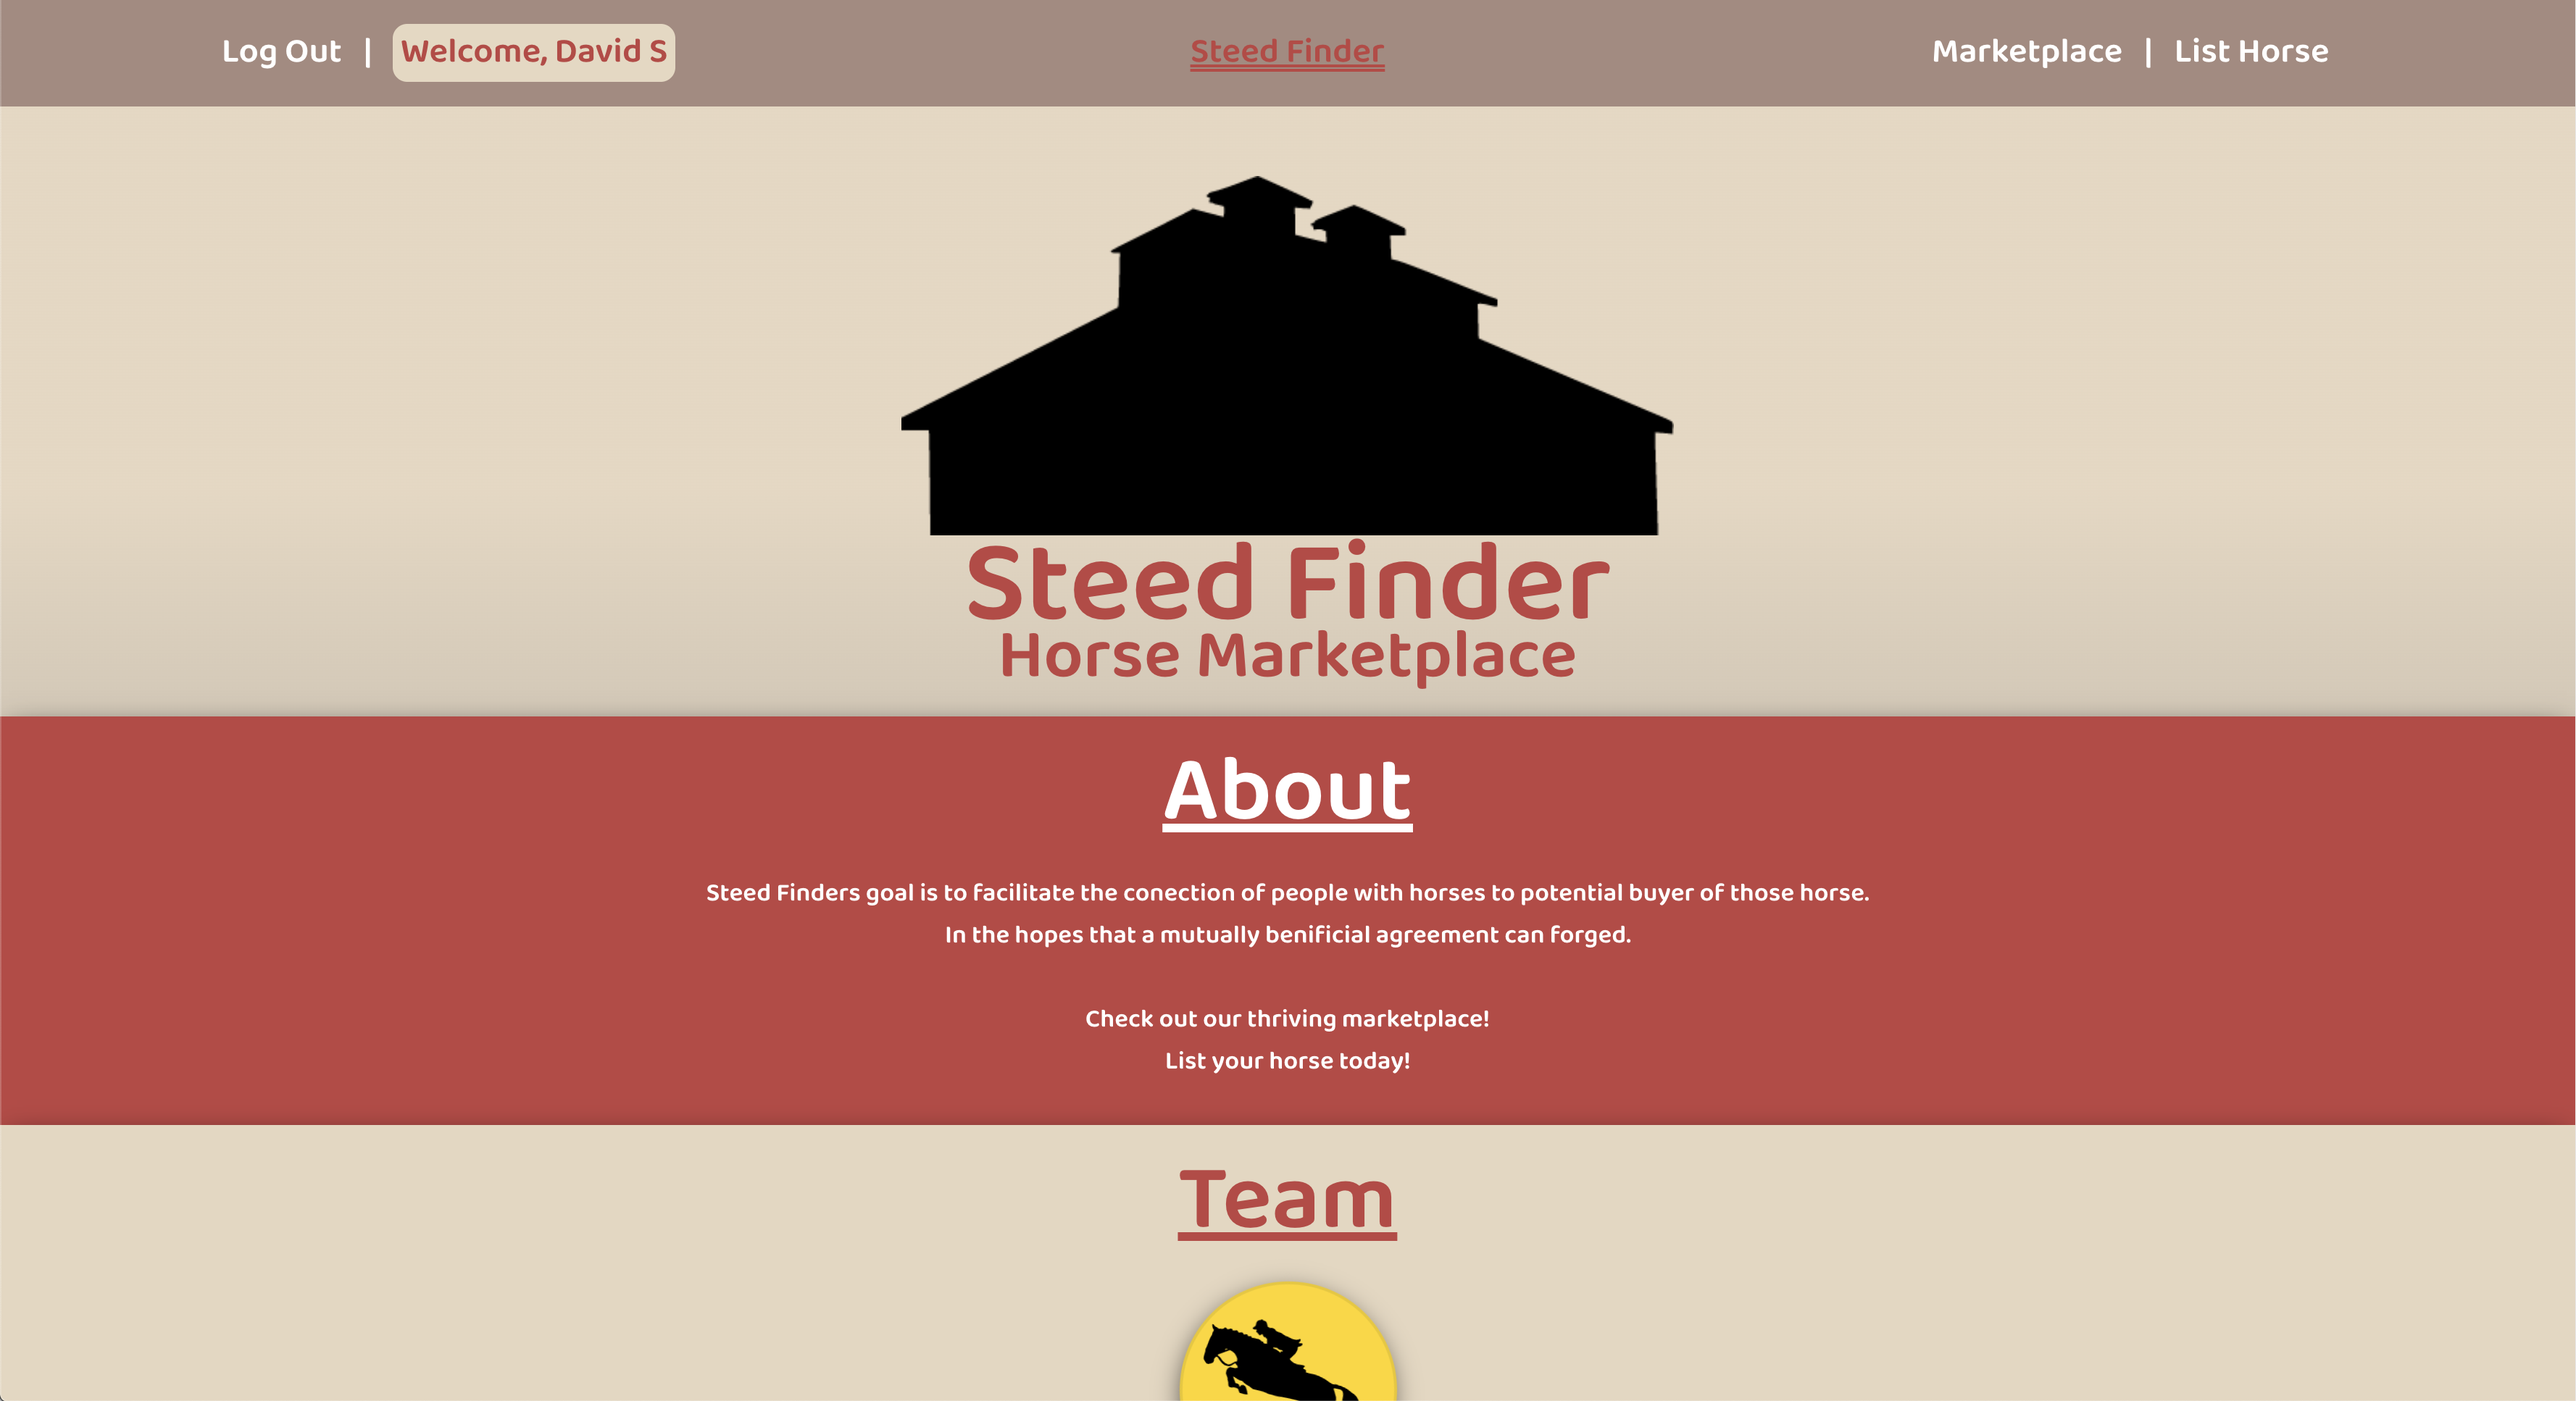
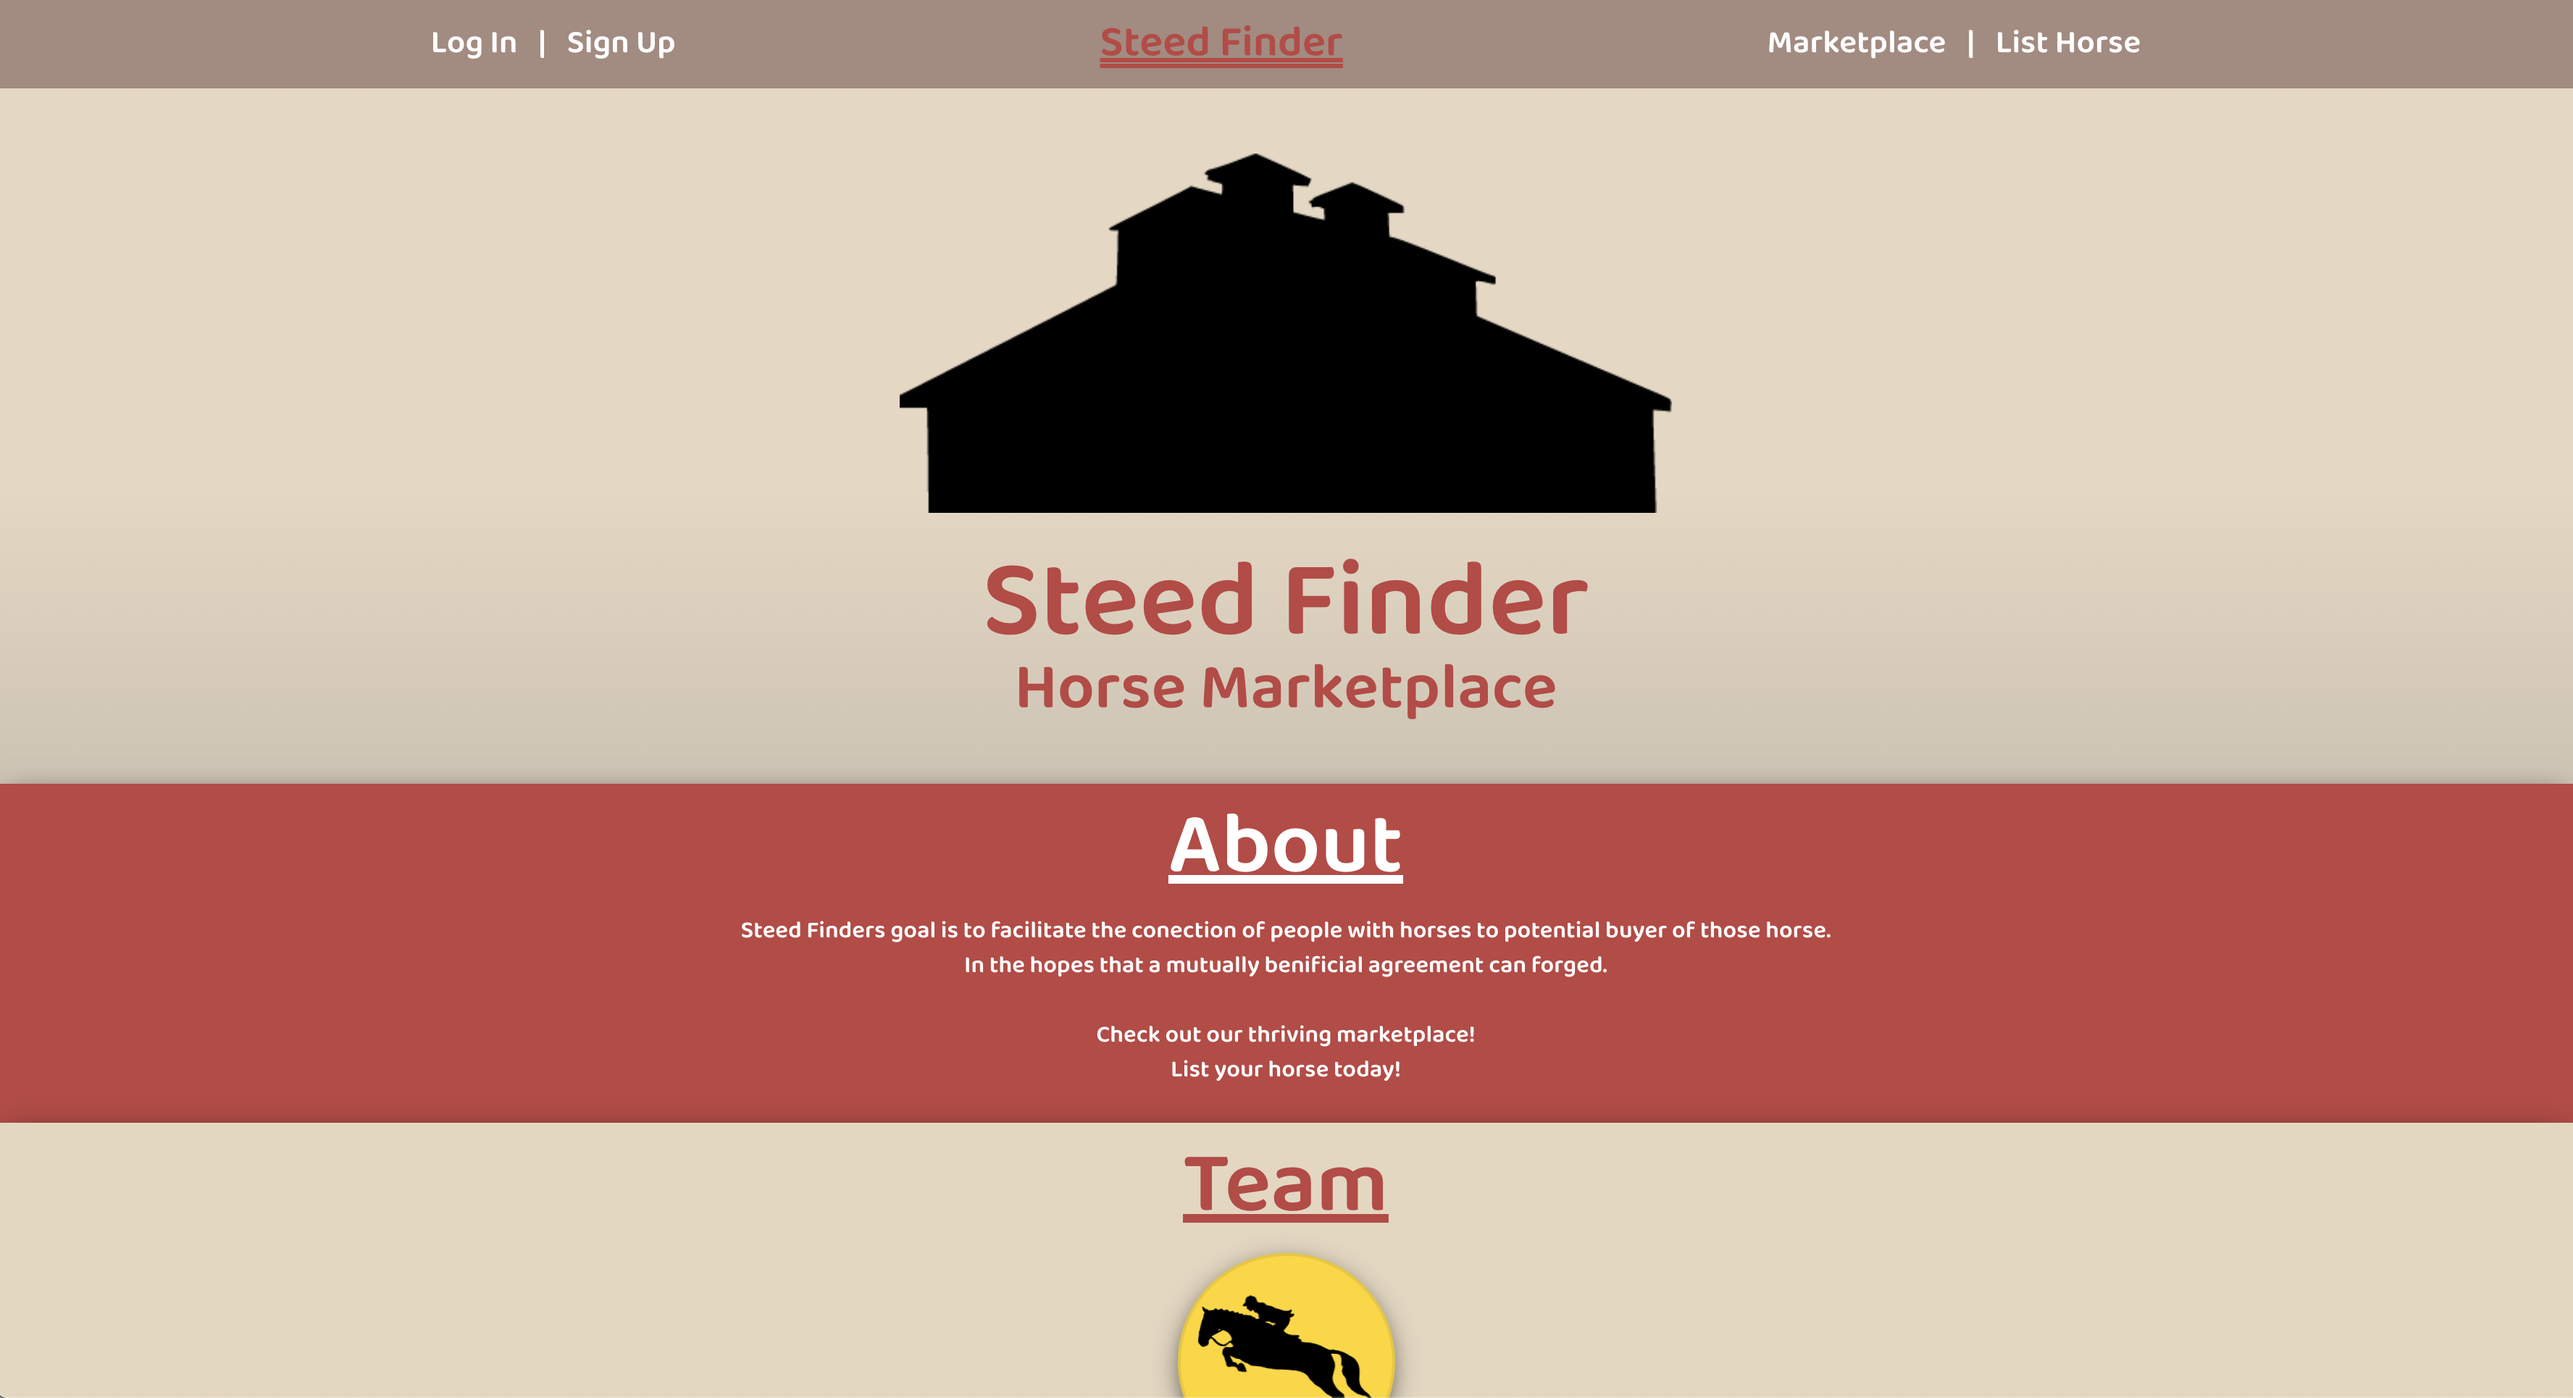
update to README

diff --git a/README.md b/README.md
@@ -11,23 +11,27 @@ You are able to list a horse and leave comments on horses when logged into the w
 ### Home Page Sceenshot
 ![Home Page Sceenshot](./Screenshots/homepageScreenshot.png?)
 
-[Home Page Sceenshot](https://imgur.com/nbhFggL)
+[Home Page Sceenshot](https://imgur.com/6bHIxvp)
 
 ![List Horse Page Sceenshot](./Screenshots/listHorseScreenshot.png?)
 
-[List Horse Sceenshot](https://imgur.com/bmKv4Fi)
+[List Horse Sceenshot](https://imgur.com/N3tfSTH)
 
 ![Horse Marketplace Page Sceenshot](./Screenshots/marketplaceScreenshot.png?)
 
-[Horse Marketplace Sceenshot](https://imgur.com/SAbvlSu)
+[Horse Marketplace Sceenshot](https://imgur.com/3dEGVu0)
+
+![Not Logged in Page Sceenshot](./Screenshots/notLoginScreenshot.png?)
+
+[Not Logged in Page Sceenshot](https://imgur.com/SCts7Fl)
 
 ![Login Page Sceenshot](./Screenshots/loginScreenshot.png?)
 
-[Login Sceenshot](https://imgur.com/08T3D2o)
+[Login Sceenshot](https://imgur.com/lKojeae)
 
 ![Signup Page Sceenshot](./Screenshots/signupScreenshot.png?)
 
-[Signup Sceenshot](https://imgur.com/J6u2dvT)
+[Signup Sceenshot](https://imgur.com/rGSg1pQ)
 
 
 
